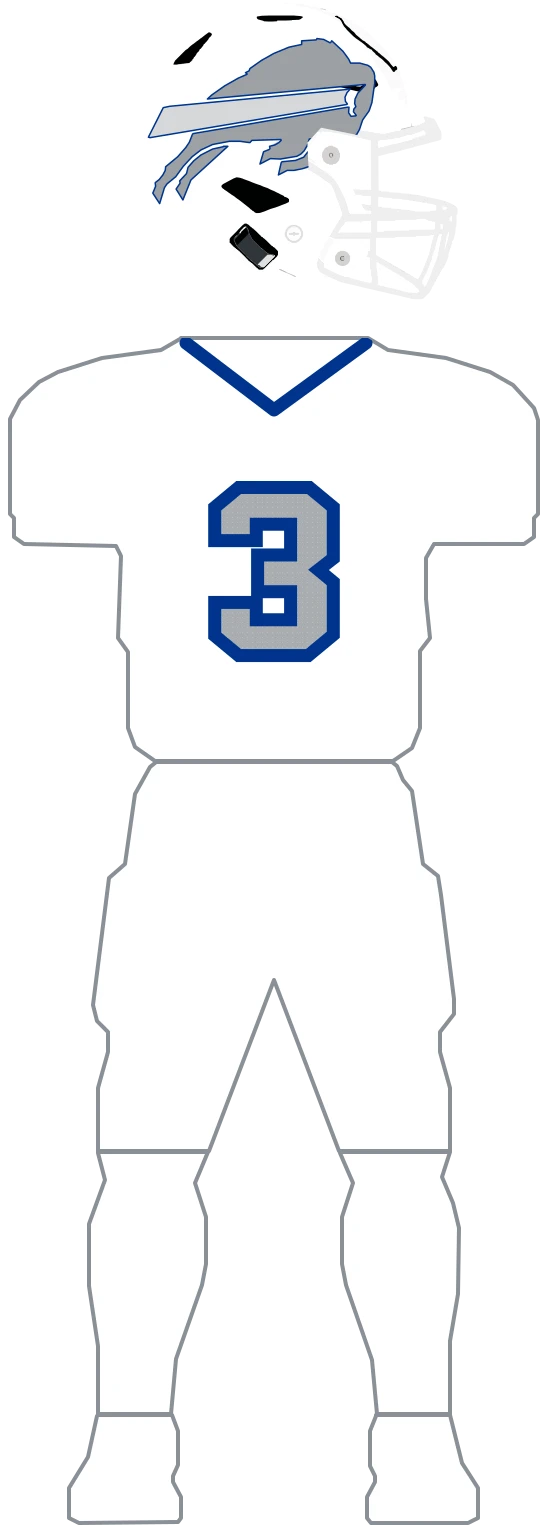
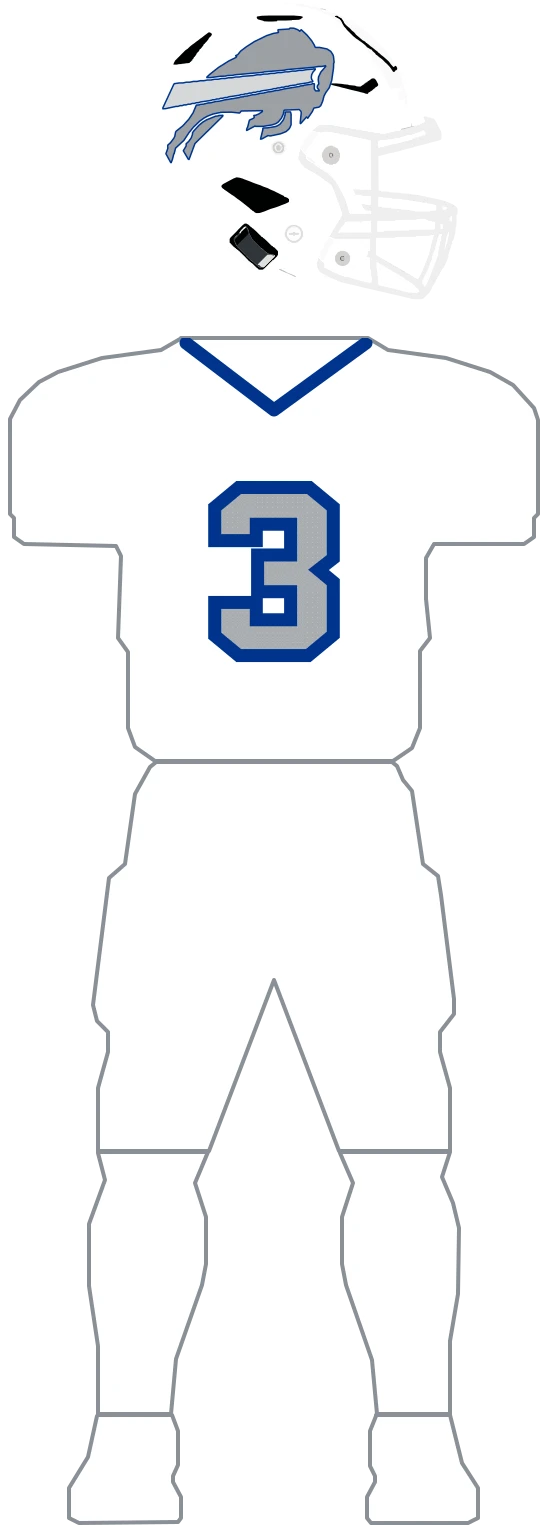
fix(uniforms): correct Bills helmet decal

Changed region(s): [[0.2732, 0.0, 0.6679, 0.1531]]

diff --git a/lib/uniforms/teams/bills.ts b/lib/uniforms/teams/bills.ts
@@ -1,4 +1,4 @@
-// Buffalo's construction geometry — the helmet decal/edge paths, sleeve-band paths, collar
+// Buffalo's construction geometry — the helmet decal, sleeve-band paths, collar
 // widths and fixed construction colors only. The composable parts definition that consumes them
 // lives in ./bills.parts.ts; the former flat BILLS_UNIFORMS was deleted in the migration that
 // proved parts render byte-identically (see parts-parity.test.ts for the one-time gate).
@@ -11,18 +11,9 @@ export const BILLS_RED = '#C60C30';
 // The abstract buffalo and diagonal stripe use the helmet's raw x:139-802, y:65-674 coordinates.
 // The stripe's unfilled notch intentionally lets the white shell show through.
 export const BILLS_HELMET_DECAL_BUFFALO_PATH =
-  'M513.3,145.1 L527.0,146.9 L539.0,153.3 L540.6,153.3 L543.0,149.6 L565.5,170.6 L576.7,186.0 L580.7,194.2 L599.2,194.2 L615.3,198.7 L620.9,202.4 L627.3,212.4 L628.9,219.7 L628.9,234.2 L623.3,273.3 L617.7,289.7 L604.8,307.9 L598.4,327.0 L592.8,337.0 L587.2,339.7 L576.7,340.6 L572.7,348.8 L559.9,366.1 L558.3,362.4 L556.7,363.3 L541.4,378.8 L543.8,351.5 L539.0,345.1 L528.6,344.2 L498.1,346.1 L494.1,358.8 L487.7,369.7 L481.2,376.1 L473.2,380.6 L440.3,386.1 L420.3,385.2 L399.4,396.1 L406.6,371.5 L417.8,367.0 L419.5,365.2 L418.6,360.6 L429.1,357.9 L437.1,353.3 L441.9,348.8 L441.1,347.0 L383.3,348.8 L379.3,353.3 L359.3,350.6 L338.4,350.6 L304.7,357.0 L281.4,367.9 L263.8,381.5 L246.1,400.6 L230.9,421.5 L213.2,436.1 L208.4,443.4 L198.8,475.2 L185.1,454.3 L190.7,440.6 L189.9,433.4 L198.0,427.0 L205.2,417.9 L210.0,408.8 L210.8,401.5 L234.9,381.5 L250.9,363.3 L258.2,352.4 L264.6,336.1 L266.2,335.1 L574.3,282.4 L577.5,282.4 L576.7,293.3 L581.5,300.6 L591.2,299.7 L592.0,298.8 L586.4,291.5 L587.2,286.0 L591.2,281.5 L588.8,275.1 L589.6,266.0 L595.2,254.2 L610.4,237.9 L609.6,236.9 L294.3,266.0 L303.1,257.9 L328.8,239.7 L356.1,224.2 L372.9,216.9 L373.7,216.0 L370.5,213.3 L377.7,209.7 L379.3,205.1 L402.6,188.7 L426.7,175.1 L457.2,162.4 L482.8,156.9 L482.8,149.6 L511.7,147.8 L513.3,146.0 Z M326.4,360.6 L335.2,360.6 L261.4,427.9 L245.3,467.9 L231.7,446.1 L239.7,434.3 L238.9,429.7 L252.5,415.2 L255.7,402.4 L267.0,389.7 L281.4,377.9 L304.7,366.1 L325.6,361.5 Z M501.3,352.4 L514.9,352.4 L516.5,368.8 L515.7,382.4 L511.7,390.6 L506.9,396.1 L498.9,400.6 L485.3,405.2 L467.6,408.8 L454.0,408.8 L436.3,417.9 L441.9,393.3 L443.5,391.5 L470.8,388.8 L486.9,382.4 L498.1,367.9 L501.3,353.3 Z';
+  'M459.6,124.1 L467.5,124.5 L475.0,127.4 L479.0,130.4 L482.0,127.4 L493.2,137.8 L502.9,149.6 L507.7,157.4 L510.1,162.9 L518.9,162.9 L533.5,165.9 L541.0,170.7 L545.3,177.3 L546.5,181.0 L547.7,192.5 L546.8,195.1 L546.5,204.3 L542.9,229.1 L538.0,243.5 L530.7,253.8 L527.4,260.5 L524.7,270.8 L521.0,279.3 L517.4,282.3 L507.4,284.1 L504.1,291.2 L495.0,304.5 L492.6,301.9 L480.8,315.2 L480.2,315.2 L479.9,313.3 L482.0,293.4 L481.4,290.8 L478.0,287.1 L448.4,288.2 L447.5,288.9 L446.0,296.7 L442.3,304.5 L436.3,311.8 L432.3,314.8 L423.8,317.8 L405.7,320.7 L390.5,320.7 L389.6,320.0 L373.3,328.8 L372.7,328.8 L372.7,327.7 L373.6,324.0 L374.5,322.9 L378.4,308.2 L386.6,304.5 L388.1,302.6 L387.2,298.9 L390.8,298.5 L396.9,296.0 L404.2,291.2 L404.2,289.3 L362.1,290.0 L358.7,294.1 L341.8,292.3 L321.8,292.6 L305.7,296.0 L294.2,300.4 L287.0,304.5 L278.8,310.4 L266.1,322.6 L257.0,334.0 L247.3,348.8 L230.6,364.3 L227.9,375.0 L227.0,376.2 L224.3,386.9 L221.9,393.2 L221.0,393.2 L211.3,375.4 L215.2,364.7 L214.9,358.4 L220.7,353.2 L227.0,344.7 L229.1,340.7 L230.6,332.5 L231.9,330.3 L245.2,319.6 L257.3,306.3 L265.8,293.4 L272.1,278.2 L277.9,277.8 L280.0,276.7 L285.8,276.4 L296.1,273.8 L299.7,273.8 L312.1,270.8 L317.9,270.5 L328.2,267.9 L357.8,263.1 L360.3,262.0 L366.0,261.6 L368.1,260.5 L373.9,260.1 L384.2,257.5 L389.9,257.2 L400.2,254.6 L406.0,254.2 L416.3,251.6 L419.9,251.6 L432.3,248.7 L436.0,248.7 L448.4,245.7 L478.0,240.9 L480.5,239.8 L486.2,239.4 L488.3,238.3 L502.3,236.5 L504.4,235.3 L508.3,235.7 L508.0,245.7 L510.8,249.8 L517.7,249.8 L518.0,249.0 L514.1,243.5 L514.1,239.8 L517.1,235.7 L515.9,228.0 L516.5,222.0 L521.0,212.4 L531.0,200.6 L530.4,199.5 L522.3,201.0 L515.6,201.0 L507.4,202.5 L452.6,207.3 L448.4,208.4 L408.1,211.7 L404.2,212.8 L349.0,217.6 L345.1,218.7 L334.5,219.1 L330.3,220.2 L319.7,220.6 L300.6,223.2 L293.3,223.2 L293.3,222.0 L299.7,216.1 L316.6,202.8 L337.8,189.5 L351.5,182.9 L352.7,181.0 L351.2,180.3 L350.9,179.2 L355.1,177.3 L360.6,170.3 L372.4,161.4 L388.4,151.1 L412.6,139.3 L426.3,134.8 L435.7,133.3 L436.6,132.2 L435.4,129.7 L435.7,127.4 L457.8,126.0 L459.3,124.5 Z M323.3,298.5 L325.1,298.5 L325.4,299.7 L322.4,303.0 L269.4,355.1 L257.6,386.9 L256.4,386.9 L246.1,369.5 L251.8,359.9 L251.8,355.5 L257.0,350.7 L261.8,344.0 L264.3,337.3 L264.6,333.3 L267.0,330.0 L277.9,318.1 L285.2,312.2 L292.4,307.8 L310.6,300.4 L315.1,300.0 L317.3,298.9 L323.0,298.9 Z M450.5,291.9 L460.5,291.9 L461.7,296.3 L461.7,317.4 L459.3,323.3 L456.9,326.6 L451.7,331.1 L441.1,335.5 L420.5,339.9 L415.4,339.2 L403.3,345.8 L400.5,346.2 L405.1,327.7 L405.1,325.2 L406.0,324.0 L414.8,323.7 L430.2,321.1 L434.4,319.6 L439.6,316.3 L445.0,309.6 L447.2,305.6 L449.6,297.8 L450.2,292.3 Z';
 export const BILLS_HELMET_DECAL_STRIPE_PATH =
-  'M574.3,246.0 L579.9,246.0 L573.5,253.3 L569.5,262.4 L570.3,270.6 L574.3,276.0 L572.7,277.0 L179.5,343.3 L176.3,342.4 L206.0,283.3 L218.8,280.6 L573.5,246.9 Z';
-
-// Back-edge piping also stays in raw helmet space. The wider navy outer stroke must paint before
-// the narrower red inset.
-export const BILLS_HELMET_EDGE_STRIPE_OUTER_PATH =
-  'M221.1,146.0 L206.2,164.8 L191.4,183.7 L176.9,202.5 L165.2,221.3 L154.5,240.2 L147.2,259.0 L147.8,277.8 L153.8,296.7 L154.2,315.5 L157.0,334.3 L158.6,353.2 L163.3,372.0 L164.9,390.8 L170.3,409.7 L172.8,428.5 L177.8,447.4 L183.2,466.2';
-export const BILLS_HELMET_EDGE_STRIPE_INNER_PATH =
-  'M212.9,259.6 L209.4,272.2 L206.6,284.7 L199.0,297.3 L192.7,309.9 L187.9,322.4 L186.4,335.0 L187.9,347.5 L191.1,360.1 L195.8,372.6 L200.6,385.2';
-export const BILLS_HELMET_EDGE_STRIPE_OUTER_WIDTH = 16;
-export const BILLS_HELMET_EDGE_STRIPE_INNER_WIDTH = 9;
+  'M505.9,205.8 L510.1,205.8 L510.1,206.9 L505.3,212.4 L502.9,217.2 L502.0,222.8 L502.9,226.8 L505.3,230.5 L504.1,232.0 L500.2,232.0 L495.9,233.5 L473.8,236.8 L471.7,237.9 L459.3,239.4 L455.3,240.9 L451.4,240.9 L447.2,242.4 L443.2,242.4 L439.0,243.8 L435.0,243.8 L430.8,245.3 L426.9,245.3 L422.6,246.8 L402.3,249.8 L398.4,251.2 L394.2,251.2 L390.2,252.7 L386.0,252.7 L382.1,254.2 L378.1,254.2 L373.9,255.7 L369.9,255.7 L365.7,257.2 L361.8,257.2 L357.5,258.6 L337.2,261.6 L333.3,263.1 L329.1,263.1 L325.1,264.5 L320.9,264.5 L317.0,266.0 L313.0,266.0 L308.8,267.5 L304.8,267.5 L300.6,269.0 L280.3,271.9 L276.4,273.4 L272.1,273.4 L268.2,274.9 L264.0,274.9 L260.0,276.4 L255.8,276.4 L251.8,277.8 L247.6,277.8 L243.7,279.3 L239.4,279.3 L235.5,280.8 L231.6,280.8 L211.0,285.2 L205.2,285.6 L205.2,283.8 L227.0,236.8 L228.2,235.3 L237.9,233.9 L245.2,233.9 L252.1,232.4 L259.1,232.4 L266.1,230.9 L273.3,230.9 L280.3,229.4 L287.3,229.4 L294.2,228.0 L301.5,228.0 L308.5,226.5 L315.7,226.5 L322.7,225.0 L329.7,225.0 L336.6,223.5 L343.6,223.5 L350.9,222.0 L357.8,222.0 L364.8,220.6 L386.3,219.1 L393.3,217.6 L400.2,217.6 L407.2,216.1 L414.5,216.1 L421.4,214.7 L428.4,214.7 L435.4,213.2 L442.3,213.2 L449.6,211.7 L456.5,211.7 L463.8,210.2 L470.8,210.2 L477.7,208.7 L485.0,208.7 L492.0,207.3 L505.6,206.2 Z';
 
 // The GUD construction reference shows red/white/navy as explicit bands. These paths use the
 // outer viewBox, and each right path explicitly mirrors its left across x=294.

diff --git a/lib/uniforms/teams/bills.parts.ts b/lib/uniforms/teams/bills.parts.ts
@@ -12,10 +12,6 @@ import {
   BILLS_COLLAR_WIDTHS,
   BILLS_HELMET_DECAL_BUFFALO_PATH,
   BILLS_HELMET_DECAL_STRIPE_PATH,
-  BILLS_HELMET_EDGE_STRIPE_INNER_PATH,
-  BILLS_HELMET_EDGE_STRIPE_INNER_WIDTH,
-  BILLS_HELMET_EDGE_STRIPE_OUTER_PATH,
-  BILLS_HELMET_EDGE_STRIPE_OUTER_WIDTH,
   BILLS_SLEEVE_NAVY_LEFT,
   BILLS_SLEEVE_NAVY_RIGHT,
   BILLS_SLEEVE_RED_LEFT,
@@ -58,26 +54,6 @@ const HELMET_WHITE: UniformPart = {
       clip: true,
       kind: 'fill',
       fill: 'red',
-    },
-    {
-      id: 'bills-helmet-edge-outer',
-      surface: 'helmet',
-      d: BILLS_HELMET_EDGE_STRIPE_OUTER_PATH,
-      clip: true,
-      kind: 'stroke',
-      stroke: 'navy',
-      strokeWidth: BILLS_HELMET_EDGE_STRIPE_OUTER_WIDTH,
-      lineCap: 'round',
-    },
-    {
-      id: 'bills-helmet-edge-inner',
-      surface: 'helmet',
-      d: BILLS_HELMET_EDGE_STRIPE_INNER_PATH,
-      clip: true,
-      kind: 'stroke',
-      stroke: 'red',
-      strokeWidth: BILLS_HELMET_EDGE_STRIPE_INNER_WIDTH,
-      lineCap: 'round',
     },
     {
       id: 'generic-sleeve-stripe-left',
